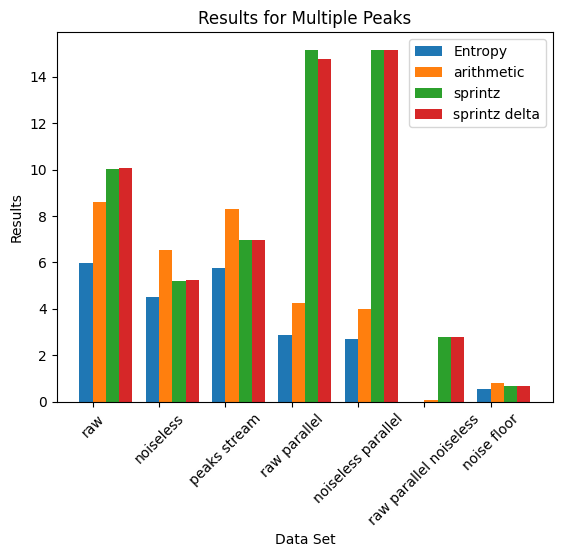
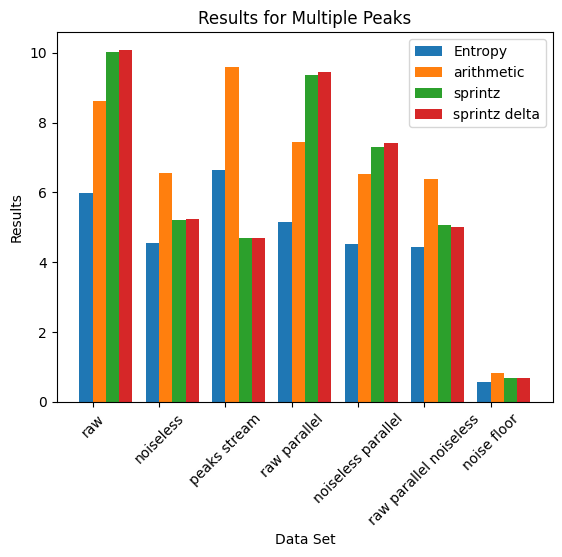
mse and results figures added

diff --git a/python/results_processing.py b/python/results_processing.py
@@ -4,103 +4,103 @@ from matplotlib import pyplot as plt
 
 data = {
     'multiple peaks': [{'data set': 'raw',
-                            'entropy': 5.970030927869522,
-                            'mse': nan,
-                            'original bitwidth': 14,
-                            'results': {'arithmetic': 8.613098705501617,
-                                        'sprintz': 10.021545307443366,
-                                        'sprintz delta': 10.078058252427185}},
-                           {'data set': 'noiseless',
-                            'entropy': 4.528444898262379,
-                            'mse': 13168.21703074434,
-                            'original bitwidth': 14,
-                            'results': {'arithmetic': 6.533317152103559,
-                                        'sprintz': 5.193559870550162,
-                                        'sprintz delta': 5.246893203883494}},
-                           {'data set': 'peaks stream',
-                            'entropy': 5.765295739852721,
-                            'mse': nan,
-                            'original bitwidth': 12,
-                            'results': {'arithmetic': 8.319148936170214,
-                                        'sprintz': 6.949709864603482,
-                                        'sprintz delta': 6.949709864603482}},
-                           {'data set': 'raw parallel',
-                            'entropy': 2.8934591868379536,
-                            'mse': nan,
-                            'original bitwidth': 14,
-                            'results': {'arithmetic': 4.25,
-                                        'sprintz': 15.15,
-                                        'sprintz delta': 14.77}},
-                           {'data set': 'noiseless parallel',
-                            'entropy': 2.718473401330013,
-                            'mse': 1547473.66,
-                            'original bitwidth': 14,
-                            'results': {'arithmetic': 4.0,
-                                        'sprintz': 15.15,
-                                        'sprintz delta': 15.15}},
-                           {'data set': 'raw parallel noiseless',
-                            'entropy': 0.0,
-                            'mse': 1547473.66,
-                            'original bitwidth': 14,
-                            'results': {'arithmetic': 0.1,
-                                        'sprintz': 2.8,
-                                        'sprintz delta': 2.8}},
-                           {'data set': 'noise floor',
-                            'entropy': 0.5548245980268753,
-                            'mse': 175559.34618122975,
-                            'original bitwidth': 14,
-                            'results': {'arithmetic': 0.8006796116504855,
-                                        'sprintz': 0.6744822006472492,
-                                        'sprintz delta': 0.6709546925566343}}],
-        'single peak': [{'data set': 'raw',
-                         'entropy': 5.485106867237306,
-                         'mse': nan,
-                         'original bitwidth': 14,
-                         'results': {'arithmetic': 7.9149763431048985,
-                                     'sprintz': 10.162262188548683,
-                                     'sprintz delta': 10.207974977853574}},
-                        {'data set': 'noiseless',
-                         'entropy': 4.107341366588825,
-                         'mse': 449051.03247729753,
-                         'original bitwidth': 14,
-                         'results': {'arithmetic': 5.9272730971100485,
-                                     'sprintz': 5.620611073888856,
-                                     'sprintz delta': 5.581502666063434}},
-                        {'data set': 'peaks stream',
-                         'entropy': 3.6496641042312836,
-                         'mse': nan,
-                         'original bitwidth': 12,
-                         'results': {'arithmetic': 5.266243146419446,
-                                     'sprintz': 4.939474727111638,
-                                     'sprintz delta': 4.924990719869634}},
-                        {'data set': 'raw parallel',
-                         'entropy': 3.851970823205285,
-                         'mse': nan,
-                         'original bitwidth': 14,
-                         'results': {'arithmetic': 5.597636815920398,
-                                     'sprintz': 12.577487562189054,
-                                     'sprintz delta': 12.498930348258707}},
-                        {'data set': 'noiseless parallel',
-                         'entropy': 3.298925011597541,
-                         'mse': 774020.8135820895,
-                         'original bitwidth': 14,
-                         'results': {'arithmetic': 4.800995024875622,
-                                     'sprintz': 11.224253731343286,
-                                     'sprintz delta': 11.224253731343286}},
-                        {'data set': 'raw parallel noiseless',
-                         'entropy': 1.8971033077103474,
-                         'mse': 774020.8135820895,
-                         'original bitwidth': 14,
-                         'results': {'arithmetic': 2.789303482587065,
-                                     'sprintz': 3.958706467661691,
-                                     'sprintz delta': 3.958706467661691}},
-                        {'data set': 'noise floor',
-                         'entropy': 0.16303920318586979,
-                         'mse': 170985.8813799198,
-                         'original bitwidth': 14,
-                         'results': {'arithmetic': 0.2367802590836178,
-                                     'sprintz': 0.8124139258740506,
-                                     'sprintz delta': 0.8210706526816732}}]}
+                     'entropy': 5.977875151550401,
+                     'mse': nan,
+                     'original bitwidth': 14,
+                     'results': {'arithmetic': 8.624420324109426,
+                                 'sprintz': 10.016329305196983,
+                                 'sprintz delta': 10.082279028237357}},
+                    {'data set': 'noiseless',
+                     'entropy': 4.536279157564378,
+                     'mse': 13236.597721496995,
+                     'original bitwidth': 14,
+                     'results': {'arithmetic': 6.544641406979141,
+                                 'sprintz': 5.197311814923902,
+                                 'sprintz delta': 5.244217584007045}},
+                    {'data set': 'peaks stream',
+                     'entropy': 6.648519993772593,
+                     'mse': nan,
+                     'original bitwidth': 12,
+                     'results': {'arithmetic': 9.59185360094451,
+                                 'sprintz': 4.681345926800472,
+                                 'sprintz delta': 4.696458087367178}},
+                    {'data set': 'raw parallel',
+                     'entropy': 5.165420541212975,
+                     'mse': nan,
+                     'original bitwidth': 14,
+                     'results': {'arithmetic': 7.453433208489389,
+                                 'sprintz': 9.352559300873908,
+                                 'sprintz delta': 9.440449438202247}},
+                    {'data set': 'noiseless parallel',
+                     'entropy': 4.523956317599315,
+                     'mse': 182584.2424469413,
+                     'original bitwidth': 14,
+                     'results': {'arithmetic': 6.526841448189762,
+                                 'sprintz': 7.307116104868913,
+                                 'sprintz delta': 7.426966292134831}},
+                    {'data set': 'raw parallel noiseless',
+                     'entropy': 4.425737586143162,
+                     'mse': 182584.2424469413,
+                     'original bitwidth': 14,
+                     'results': {'arithmetic': 6.3865168539325845,
+                                 'sprintz': 5.069912609238452,
+                                 'sprintz delta': 5.0059925093632955}},
+                    {'data set': 'noise floor',
+                     'entropy': 0.5715887236005829,
+                     'mse': 175720.19205544042,
+                     'original bitwidth': 14,
+                     'results': {'arithmetic': 0.8248698027142446,
+                                 'sprintz': 0.6899508704733969,
+                                 'sprintz delta': 0.6904892347348984}}],
+ 'single peak': [{'data set': 'raw',
+                  'entropy': 5.48630268996592,
+                  'mse': nan,
+                  'original bitwidth': 14,
+                  'results': {'arithmetic': 7.916655654128618,
+                              'sprintz': 10.174298214224255,
+                              'sprintz delta': 10.213349773272526}},
+                 {'data set': 'noiseless',
+                  'entropy': 4.107150057001681,
+                  'mse': 454448.841720896,
+                  'original bitwidth': 14,
+                  'results': {'arithmetic': 5.9269589611475935,
+                              'sprintz': 5.621125462039771,
+                              'sprintz delta': 5.580728325666768}},
+                 {'data set': 'peaks stream',
+                  'entropy': 4.090807295619112,
+                  'mse': nan,
+                  'original bitwidth': 12,
+                  'results': {'arithmetic': 5.901832407328433,
+                              'sprintz': 3.6604870740888718,
+                              'sprintz delta': 3.6641050772402313}},
+                 {'data set': 'raw parallel',
+                  'entropy': 5.452328074898036,
+                  'mse': nan,
+                  'original bitwidth': 14,
+                  'results': {'arithmetic': 7.8667528142628,
+                              'sprintz': 9.60594772527099,
+                              'sprintz delta': 9.749494483736006}},
+                 {'data set': 'noiseless parallel',
+                  'entropy': 4.272593181222412,
+                  'mse': 91556.35810940909,
+                  'original bitwidth': 14,
+                  'results': {'arithmetic': 6.1642052744871565,
+                              'sprintz': 7.155972053641458,
+                              'sprintz delta': 7.291213984932836}},
+                 {'data set': 'raw parallel noiseless',
+                  'entropy': 4.357639678294283,
+                  'mse': 91556.35810940909,
+                  'original bitwidth': 14,
+                  'results': {'arithmetic': 6.287573454123806,
+                              'sprintz': 5.111697402989776,
+                              'sprintz delta': 5.077033671700358}},
+                 {'data set': 'noise floor',
+                  'entropy': 0.16318698472011645,
+                  'mse': 171261.52315929063,
+                  'original bitwidth': 14,
+                  'results': {'arithmetic': 0.2370218378094061,
+                              'sprintz': 0.8184013709067056,
+                              'sprintz delta': 0.8270496263212763}}]}
 
 
 def fig_algorithms_w_entropy_results(figure_name: str, res: list):
@@ -123,5 +123,24 @@ def fig_algorithms_w_entropy_results(figure_name: str, res: list):
     plt.savefig(figure_name, bbox_inches='tight')
 
 
-fig_algorithms_w_entropy_results("results_multiple_peaks.png", data['multiple peaks'])
-fig_algorithms_w_entropy_results("results_single_peak.png", data['single peak'])
+def fig_mean_square_error(figure_name: str, res: dict):
+    labels = [entry['data set'] for entry in res[list(res.keys())[0]]]
+    index = np.arange(len(labels))
+    bar_width = 0.2
+    datasets = list(res.keys())
+    fig, axs = plt.subplots(1, 1)
+    for idx, d in enumerate(datasets):
+        values = [val['mse'] for val in res[d]]
+        axs.bar(index + idx * bar_width, values, bar_width, label=d)
+    axs.set_xlabel('Data Set')
+    axs.set_ylabel('Mean Square Error')
+    axs.set_title('Transformations MSE in comparison to raw data')
+    axs.set_xticks(index + bar_width / 2)
+    axs.set_xticklabels(labels, rotation=45)
+    axs.legend()
+    plt.savefig(figure_name, bbox_inches='tight')
+
+
+fig_algorithms_w_entropy_results("Figures/results_multiple_peaks.png", data['multiple peaks'])
+fig_algorithms_w_entropy_results("Figures/results_single_peak.png", data['single peak'])
+fig_mean_square_error("Figures/mse.png", data)

diff --git a/python/main.py b/python/main.py
@@ -9,15 +9,23 @@ PEAK_DETECTION_BASIC_THRESHOLD = 1.1
 DECIMATION_RATE = 10
 NOISE_LEVEL_FACTOR = 1.2
 
+# 3 minutes data input
 # WIDE_OSCYLLOGRAM_NUM = 100
 # WIDE_OSCYLLOGRAMS_DENSE_NUM = 3000
 # THIN_OSCYLLOGRAM_NUM = 1000
 # THIN_OSCYLLOGRAM_DENSE_NUM = 30000
-WIDE_OSCYLLOGRAM_NUM = 20
-WIDE_OSCYLLOGRAMS_DENSE_NUM = 600
-THIN_OSCYLLOGRAM_NUM = 200
-THIN_OSCYLLOGRAM_DENSE_NUM = 6000
 
+# 30 sec data input
+# WIDE_OSCYLLOGRAM_NUM = 20
+# WIDE_OSCYLLOGRAMS_DENSE_NUM = 600
+# THIN_OSCYLLOGRAM_NUM = 200
+# THIN_OSCYLLOGRAM_DENSE_NUM = 6000
+
+# 20 minutes data input
+WIDE_OSCYLLOGRAM_NUM = 800
+WIDE_OSCYLLOGRAMS_DENSE_NUM = 24000
+THIN_OSCYLLOGRAM_NUM = 8000
+THIN_OSCYLLOGRAM_DENSE_NUM = 30000
 
 FILE_STEP = 78500 // WIDE_OSCYLLOGRAM_NUM
 DENSE_FILE_STEP = 78500 // WIDE_OSCYLLOGRAMS_DENSE_NUM
